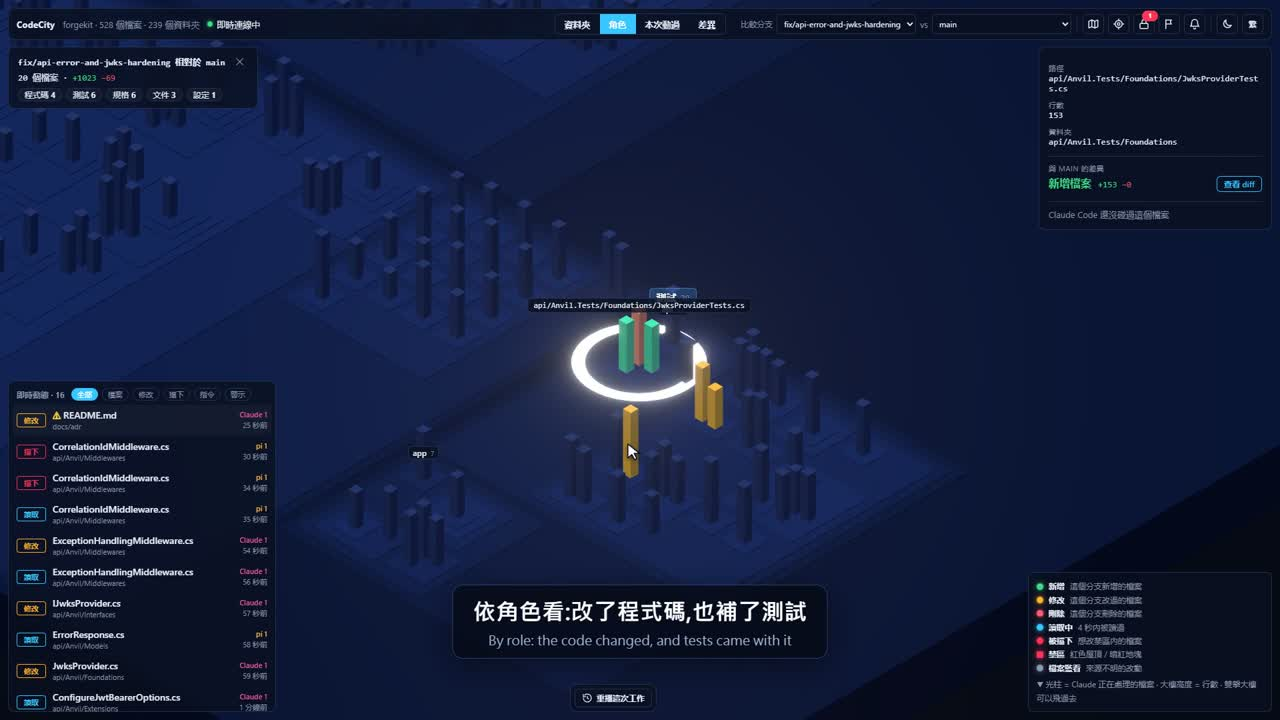
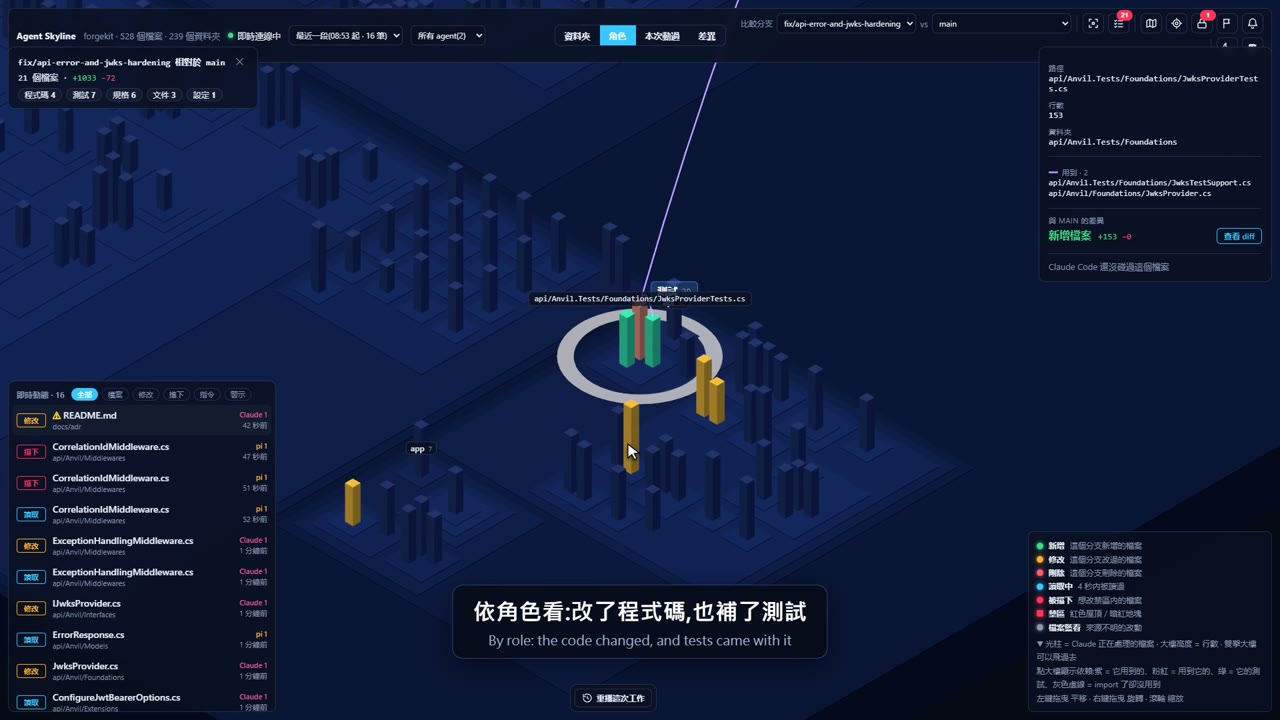
Rewrite the front-page README and refresh the demo poster
The front page now says what Agent Skyline does and how to start it, instead of
pointing at a subfolder. The poster is taken from a new recording with the new name.

diff --git a/README.md b/README.md
@@ -2,29 +2,65 @@
 
 [繁體中文](README.zh-TW.md)
 
-Ideas for presenting structured data as game-like, isometric or 3D scenes — and one of those ideas
-built into a working tool.
+**Watch your AI coding agent work, and stop it before it writes where it shouldn't.**
 
-Formerly called CodeCity; renamed because several other projects already use that name.
-
-## Contents
-
-- `agent-skyline/` — draws a repo as a 3D city to supervise AI coding agents live: what they read and
-  write, locked zones that block writes, and branch comparison by git diff. Start with
-  `agent-skyline/README.md`.
+Agent Skyline draws your git repository as a 3D city — folders are districts, files are buildings,
+building height is line count — and lights it up as Claude Code (or pi) reads and writes files.
 
 [![Agent Skyline demo](agent-skyline/demo/poster.jpg)](https://github.com/Zuexx/agent-skyline/releases/download/demo/agent-skyline-demo.mp4)
 
-Demo video with voice-over (about 4 minutes): click the image, or see the
-[release](https://github.com/Zuexx/agent-skyline/releases/tag/demo).
+▶ Demo video (about 4 minutes): click the image above, or download it from the
+[release page](https://github.com/Zuexx/agent-skyline/releases/tag/demo).
 
-## Conventions
+## What it does
 
-- Video files (`*.mp4`, `*.webm`, `*.mkv`) are git-ignored; the demo video is attached to a release.
-- Agent Skyline's `node_modules/`, `web/dist/` and live data in `data/` (event log, locked zones) are not
-  versioned either.
-- Docs are written in English first, with a Traditional Chinese version next to them (`*.zh-TW.md`).
+- **See it live**: which files the agent reads (blue) and writes (amber), as it happens.
+- **Lock folders**: writes into a locked folder are **blocked before they happen** — through
+  Edit/Write and through shell commands like `echo … > file`.
+- **Review a branch**: compare it with `main`; the city is colored by git diff, and a review list
+  puts the riskiest changes first (no tests, many dependents, large change).
+- **Hand out work**: drag a box over buildings to turn those files into a task scope for the agent.
+
+It runs on your machine only (the server listens on 127.0.0.1) and works with **Claude Code** and
+**pi**. Changes from anyone else still show up through a file watcher.
+
+## Quick start
+
+Requires Node 22+ and git. The watched folder must be a git repository (`git init` is enough).
+
+```bash
+git clone https://github.com/Zuexx/agent-skyline.git
+cd agent-skyline/agent-skyline          # the tool lives in a folder with the same name
+
+cd web && npm install && npm run build  # 1. build the UI (once)
+cd ..
+node server/server.mjs --repo D:/path/to/your/repo   # 2. start the server
+```
+
+3. Open http://127.0.0.1:4477 — you'll see your repo as a city.
+
+4. Connect Claude Code so the city sees what it does and can block writes:
+
+   ```bash
+   node cli/install-hooks.mjs D:/path/to/your/repo --write
+   ```
+
+   This writes `<your repo>/.claude/settings.local.json`; add that path to your repo's
+   `.gitignore`. Start a **new** Claude Code session to load the hooks; delete the file to remove
+   them.
+
+No agent handy? `node cli/simulate.mjs` plays a fake session — see the full guide.
+
+## Learn more
+
+| Document | What's in it |
+|---|---|
+| [`agent-skyline/README.md`](agent-skyline/README.md) | Full guide: pi, auto-start with each session, locked zones, every UI feature, tests |
+| [`agent-skyline/NOTES.md`](agent-skyline/NOTES.md) | The idea, and why it is shaped this way |
+| [`agent-skyline/PROGRESS.md`](agent-skyline/PROGRESS.md) | How it was built: every decision, and one incident |
+
+Formerly called CodeCity; renamed because several other projects already use that name.
 
 ## License
 
-MIT — see `LICENSE`.
+MIT — see [`LICENSE`](LICENSE).

diff --git a/README.zh-TW.md b/README.zh-TW.md
@@ -2,24 +2,58 @@
 
 [English](README.md)
 
-發想「用遊戲風、等角或 3D 場景呈現結構化資料」的新應用,並把其中一個想法做成可用的工具。
+**看著 AI coding agent 工作,在它寫進不該碰的地方之前擋下來。**
 
-原名 CodeCity,因為已經有好幾個專案用了這個名字,所以改名。
-
-## 內容
-
-- `agent-skyline/`:把 repo 畫成 3D 城市,即時監督 AI coding agent:讀寫了什麼、用禁區擋下寫入、用 git diff 比較分支。從 `agent-skyline/README.zh-TW.md` 開始讀。
+Agent Skyline 把 git repo 畫成一座 3D 城市:資料夾是街區、檔案是大樓、大樓高度是行數。Claude Code(或 pi)讀寫檔案時,對應的大樓會即時亮起來。
 
 [![Agent Skyline 演示](agent-skyline/demo/poster.jpg)](https://github.com/Zuexx/agent-skyline/releases/download/demo/agent-skyline-demo.mp4)
 
-有配音的演示影片(約 4 分鐘):點圖片,或到 [release](https://github.com/Zuexx/agent-skyline/releases/tag/demo) 下載。
+▶ 演示影片(約 4 分鐘):點上面的圖片,或到 [release 頁面](https://github.com/Zuexx/agent-skyline/releases/tag/demo)下載。
 
-## 慣例
+## 能做什麼
 
-- 影片檔(`*.mp4`、`*.webm`、`*.mkv`)被 `.gitignore` 排除;演示影片放在 release 的附件。
-- Agent Skyline 的 `node_modules/`、`web/dist/` 和即時資料 `data/`(事件紀錄、禁區設定)也不進版控。
-- 文件以英文為主,旁邊附繁體中文版(`*.zh-TW.md`)。
+- **即時看見**:agent 讀了哪些檔案(藍色)、改了哪些(琥珀色),當下就看得到。
+- **鎖住資料夾**:寫進禁區的動作會**在發生之前就被擋下**,不論是 Edit/Write,還是 `echo … > file` 這類 shell 指令。
+- **Review 分支**:和 `main` 比較,城市依 git diff 上色;review 清單把風險最高的改動排在前面(沒有測試、很多檔案依賴、改動很大)。
+- **派工作**:拖曳框選幾棟大樓,這些檔案就變成交給 agent 的任務範圍。
+
+只在你的電腦上執行(伺服器只綁 127.0.0.1),支援 **Claude Code** 和 **pi**。其他人或其他工具改的檔案,也會透過檔案監看顯示出來。
+
+## 快速開始
+
+需要 Node 22 以上和 git。要看的資料夾必須是 git repo(`git init` 一次就好)。
+
+```bash
+git clone https://github.com/Zuexx/agent-skyline.git
+cd agent-skyline/agent-skyline          # 工具放在同名的子資料夾裡
+
+cd web && npm install && npm run build  # 1. 建置畫面(只要做一次)
+cd ..
+node server/server.mjs --repo D:/path/to/your/repo   # 2. 啟動伺服器
+```
+
+3. 打開 http://127.0.0.1:4477 ,就會看到你的 repo 變成一座城市。
+
+4. 接上 Claude Code,讓城市看得到它在做什麼,也能擋下寫入:
+
+   ```bash
+   node cli/install-hooks.mjs D:/path/to/your/repo --write
+   ```
+
+   這會寫入 `<你的 repo>/.claude/settings.local.json`,請把這個路徑加進該 repo 的 `.gitignore`。之後**新開**的 Claude Code 工作階段才會載入 hook;刪掉這個檔案就移除了。
+
+手邊沒有 agent?`node cli/simulate.mjs` 可以播放一段模擬的工作,用法見完整說明。
+
+## 延伸閱讀
+
+| 文件 | 內容 |
+|---|---|
+| [`agent-skyline/README.zh-TW.md`](agent-skyline/README.zh-TW.md) | 完整說明:pi、開工作階段時自動啟動、禁區、畫面上每個功能、測試 |
+| [`agent-skyline/NOTES.zh-TW.md`](agent-skyline/NOTES.zh-TW.md) | 構想,以及為什麼做成這樣 |
+| [`agent-skyline/PROGRESS.zh-TW.md`](agent-skyline/PROGRESS.zh-TW.md) | 開發過程:每個決定,和一次事故 |
+
+原名 CodeCity,因為已經有好幾個專案用了這個名字,所以改名。
 
 ## 授權
 
-MIT,見 `LICENSE`。
+MIT,見 [`LICENSE`](LICENSE)。

diff --git a/agent-skyline/README.md b/agent-skyline/README.md
@@ -62,7 +62,7 @@ node cli/install-hooks.mjs D:/path/to/repo --write --autostart          # start 
 node cli/install-hooks.mjs D:/path/to/repo --write --autostart --open   # …and open the browser
 ```
 
-This adds a SessionStart hook (`hooks/session-start.mjs`). It reuses a Agent Skyline server that already
+This adds a SessionStart hook (`hooks/session-start.mjs`). It reuses an Agent Skyline server that already
 serves the repo; otherwise it starts one in the background on the first free port from 4477
 (`--port` to change). `--open` opens the browser only when it had to start a server. The hook prints
 nothing and never fails the session. Servers it started keep running after the session; list or
